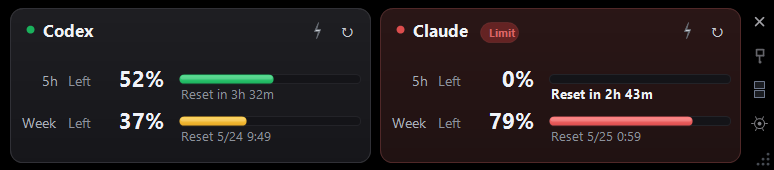
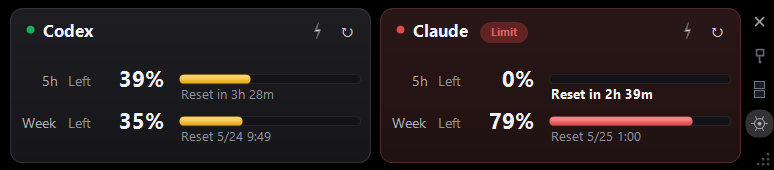
Center text in status badges

diff --git a/Program.cs b/Program.cs
@@ -1160,16 +1160,25 @@ namespace Headroom
 
         void DrawBadge(Graphics g, string text, int x, int y, Color bgColor, Color textColor)
         {
-            using (var path = RoundRect(x, y, 38, 20, 10))
-            {
-                using (var bg = new SolidBrush(bgColor))
-                    g.FillPath(bg, path);
-                using (var border = new Pen(Color.FromArgb(40, textColor.R, textColor.G, textColor.B), 0.6f))
-                    g.DrawPath(border, path);
-            }
             using (var f = new Font("Segoe UI", 8.2f, FontStyle.Bold))
-            using (var b = new SolidBrush(textColor))
-                g.DrawString(text, f, b, x + 7, y + 3);
+            {
+                int badgeW = Math.Max(32, (int)Math.Ceiling(g.MeasureString(text, f).Width) + 16);
+                using (var path = RoundRect(x, y, badgeW, 20, 10))
+                {
+                    using (var bg = new SolidBrush(bgColor))
+                        g.FillPath(bg, path);
+                    using (var border = new Pen(Color.FromArgb(40, textColor.R, textColor.G, textColor.B), 0.6f))
+                        g.DrawPath(border, path);
+                }
+                using (var b = new SolidBrush(textColor))
+                using (var sf = new StringFormat())
+                {
+                    sf.Alignment = StringAlignment.Center;
+                    sf.LineAlignment = StringAlignment.Center;
+                    sf.FormatFlags = StringFormatFlags.NoWrap;
+                    g.DrawString(text, f, b, new RectangleF(x, y, badgeW, 20), sf);
+                }
+            }
         }
 
         void DrawServiceMark(Graphics g, string name, int x, int y, Color accent)